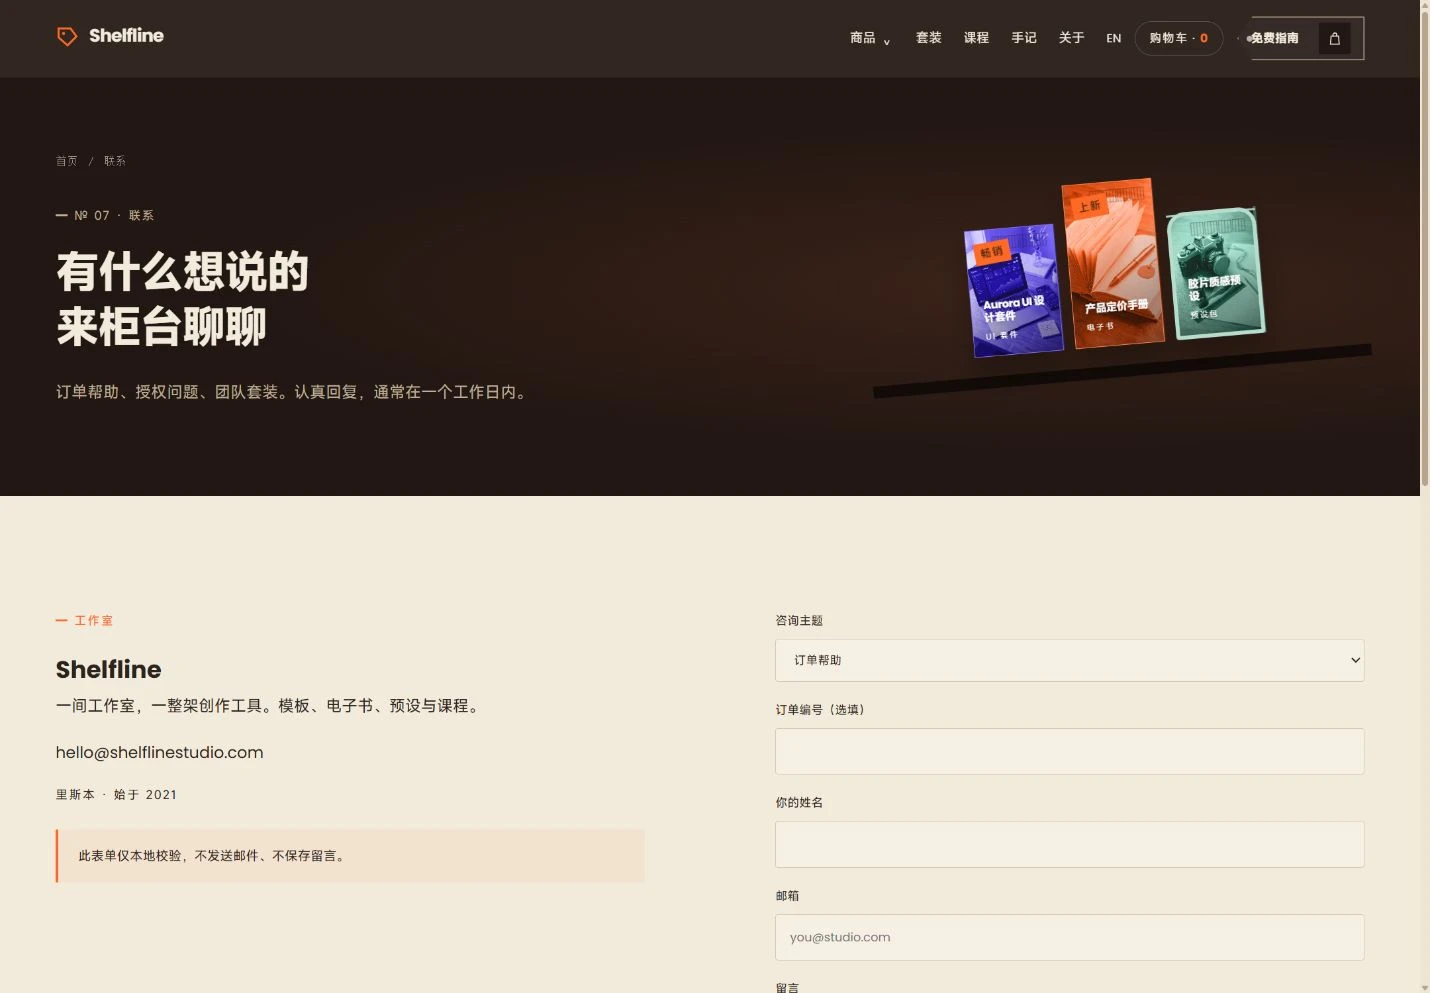
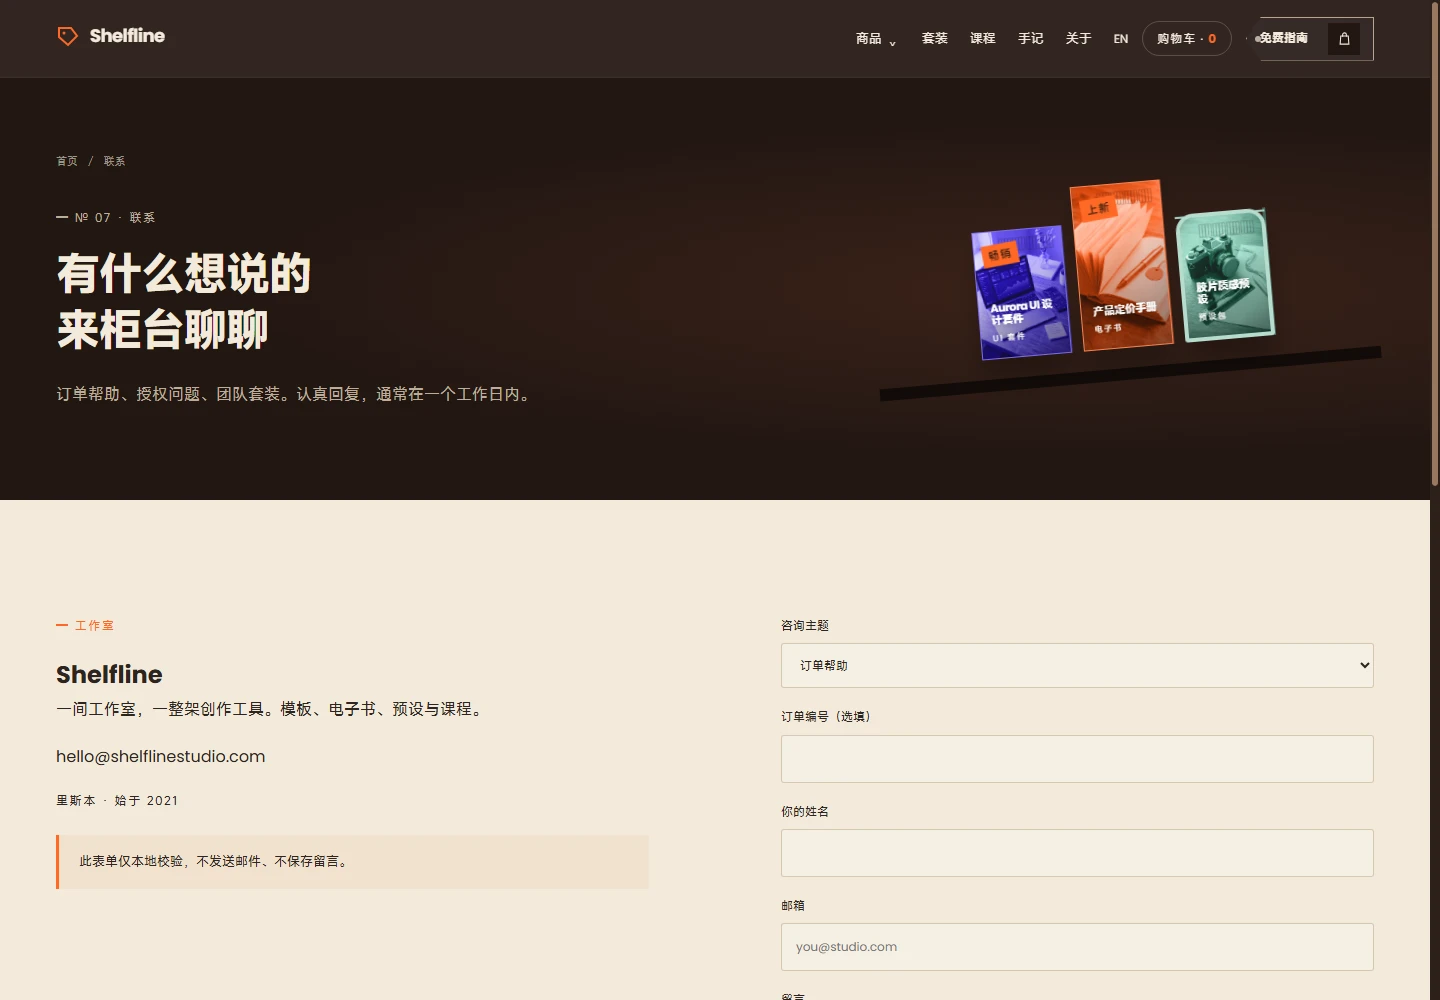
更新 Shelfline 三端真实截图与尺寸元数据

diff --git a/src/features/site-templates/catalog/shelfline/meta.tsx b/src/features/site-templates/catalog/shelfline/meta.tsx
@@ -1,5 +1,5 @@
 import type {SiteTemplate,SiteTemplatePageProps} from '../../types'
-export const shelflineTemplate:SiteTemplate={id:'shelfline',name:'Shelfline · 创作者数字商店',localizedNames:{en:'Shelfline · Creator digital goods store'},sceneId:'online-store',listed:false,tags:['数字商品','立体货架','小票设计','中英文','PC / iPad / H5'],summary:'包含九款数字商品、六类货架、三组套装、课程、手记与政策的双语商店模板，支持立体商品、筛选和本地购物车演示。',accentColor:'#ff6926',gitUrl:'https://github.com/weelume/shelfline-template',cover:'/templates/shelfline/screenshots/desktop-home.webp',screenshots:[{"src": "/templates/shelfline/screenshots/desktop-home.webp", "alt": "Shelfline desktop home", "device": "desktop", "width": 1430, "height": 993}, {"src": "/templates/shelfline/screenshots/desktop-products.webp", "alt": "Shelfline desktop products", "device": "desktop", "width": 1430, "height": 993}, {"src": "/templates/shelfline/screenshots/desktop-notes.webp", "alt": "Shelfline desktop notes", "device": "desktop", "width": 1430, "height": 993}, {"src": "/templates/shelfline/screenshots/desktop-contact.webp", "alt": "Shelfline desktop contact", "device": "desktop", "width": 1430, "height": 993}, {"src": "/templates/shelfline/screenshots/tablet-home.webp", "alt": "Shelfline tablet home", "device": "tablet", "width": 824, "height": 1166}, {"src": "/templates/shelfline/screenshots/tablet-products.webp", "alt": "Shelfline tablet products", "device": "tablet", "width": 824, "height": 1166}, {"src": "/templates/shelfline/screenshots/tablet-notes.webp", "alt": "Shelfline tablet notes", "device": "tablet", "width": 824, "height": 1166}, {"src": "/templates/shelfline/screenshots/tablet-contact.webp", "alt": "Shelfline tablet contact", "device": "tablet", "width": 824, "height": 1166}, {"src": "/templates/shelfline/screenshots/mobile-home.webp", "alt": "Shelfline mobile home", "device": "mobile", "width": 380, "height": 822}, {"src": "/templates/shelfline/screenshots/mobile-products.webp", "alt": "Shelfline mobile products", "device": "mobile", "width": 380, "height": 822}, {"src": "/templates/shelfline/screenshots/mobile-notes.webp", "alt": "Shelfline mobile notes", "device": "mobile", "width": 380, "height": 822}, {"src": "/templates/shelfline/screenshots/mobile-contact.webp", "alt": "Shelfline mobile contact", "device": "mobile", "width": 380, "height": 822}],surfaces:[{id:'site',name:'创作商店',platform:'pc',locales:['zh','en'],pages:[
+export const shelflineTemplate:SiteTemplate={id:'shelfline',name:'Shelfline · 创作者数字商店',localizedNames:{en:'Shelfline · Creator digital goods store'},sceneId:'online-store',listed:false,tags:['数字商品','立体货架','小票设计','中英文','PC / iPad / H5'],summary:'包含九款数字商品、六类货架、三组套装、课程、手记与政策的双语商店模板，支持立体商品、筛选和本地购物车演示。',accentColor:'#ff6926',gitUrl:'https://github.com/weelume/shelfline-template',cover:'/templates/shelfline/screenshots/desktop-home.webp',screenshots:[{"src": "/templates/shelfline/screenshots/desktop-home.webp", "alt": "Shelfline desktop home", "device": "desktop", "width": 1440, "height": 1000}, {"src": "/templates/shelfline/screenshots/desktop-products.webp", "alt": "Shelfline desktop products", "device": "desktop", "width": 1440, "height": 1000}, {"src": "/templates/shelfline/screenshots/desktop-notes.webp", "alt": "Shelfline desktop notes", "device": "desktop", "width": 1440, "height": 1000}, {"src": "/templates/shelfline/screenshots/desktop-contact.webp", "alt": "Shelfline desktop contact", "device": "desktop", "width": 1440, "height": 1000}, {"src": "/templates/shelfline/screenshots/tablet-home.webp", "alt": "Shelfline tablet home", "device": "tablet", "width": 834, "height": 1180}, {"src": "/templates/shelfline/screenshots/tablet-products.webp", "alt": "Shelfline tablet products", "device": "tablet", "width": 834, "height": 1180}, {"src": "/templates/shelfline/screenshots/tablet-notes.webp", "alt": "Shelfline tablet notes", "device": "tablet", "width": 834, "height": 1180}, {"src": "/templates/shelfline/screenshots/tablet-contact.webp", "alt": "Shelfline tablet contact", "device": "tablet", "width": 834, "height": 1180}, {"src": "/templates/shelfline/screenshots/mobile-home.webp", "alt": "Shelfline mobile home", "device": "mobile", "width": 390, "height": 844}, {"src": "/templates/shelfline/screenshots/mobile-products.webp", "alt": "Shelfline mobile products", "device": "mobile", "width": 390, "height": 844}, {"src": "/templates/shelfline/screenshots/mobile-notes.webp", "alt": "Shelfline mobile notes", "device": "mobile", "width": 390, "height": 844}, {"src": "/templates/shelfline/screenshots/mobile-contact.webp", "alt": "Shelfline mobile contact", "device": "mobile", "width": 390, "height": 844}],surfaces:[{id:'site',name:'创作商店',platform:'pc',locales:['zh','en'],pages:[
 {slug:"",title:"首页",localizedTitles:{en:"Home"},load:async()=>{const {default:Page}=await import('./pages/HomePage');return {default:Page}}},
 {slug:"404",title:"未找到页面",localizedTitles:{en:"404"},load:async()=>{const {default:Page}=await import('./pages/UtilityPage');return {default:(props:SiteTemplatePageProps)=><Page {...props} kind="404"/>}}},
 {slug:"about",title:"关于工作室",localizedTitles:{en:"about"},load:async()=>{const {default:Page}=await import('./pages/StudioPage');return {default:(props:SiteTemplatePageProps)=><Page {...props} kind="about"/>}}},
